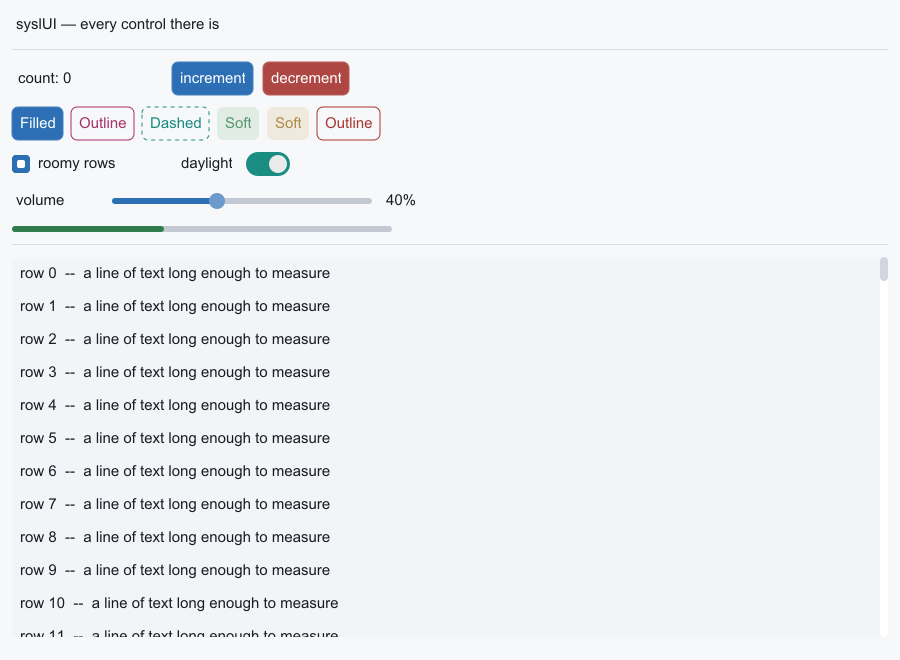
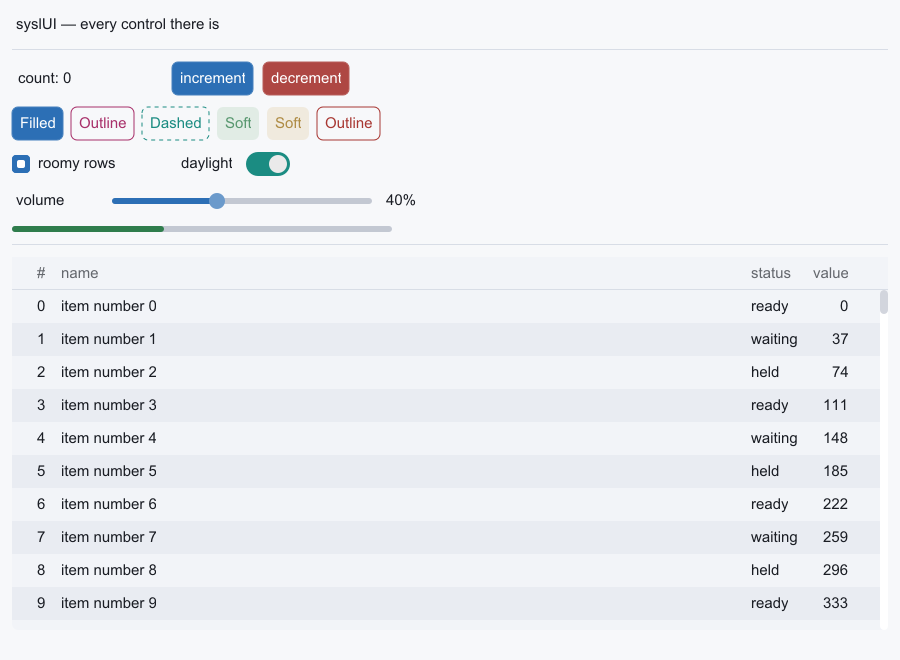
A table of three hundred rows, and both themes in the README
The scrolling list is a table now: right-aligned id and value columns, a flex
name column, a status, striping the checkbox turns off, and a tap that sets the
counter from the row's index.

It is also the measurement the toolkit most needed. A table is lazy -- the tree
holds a node and a slice, and the rows become views during paint -- so a rebuild
costs 2.1 us whatever the list length. And only the rows in the window are
built: 933 allocations a frame at 300 rows and 933 at 3000, where building all
of them was 12,605.

`--shot light` writes the same frame under the other theme, and both are in the
README. That pair is the cheapest check that a restyle reaches everything: a
colour a control had baked in shows up as the one thing that did not move.

diff --git a/README.md b/README.md
@@ -5,14 +5,21 @@ has, drawn by a software rasterizer and handed to SDL3 as one streaming texture.
 
 ![the demo](shot.png)
 
+The same frame under the other theme — one switch, and every control, label, panel, rule and
+scrollbar below it moved. Nothing in the program names a colour: a button says `.Error` and the
+theme says what that is.
+
+![the same screen in the light theme](shot-light.png)
+
 That picture is not a photograph of a window. It is `./syslui-demo --shot`, which draws one frame
 and asks PlutoVG to write its own surface out — so it is byte for byte what the window shows, and
 it is produced by the same program with no display server anywhere near it.
 
 ```
 sysl build . --lib ../syslui
-./syslui-demo              # a window: buttons, a switch, a checkbox, a slider, a scrolling list
+./syslui-demo              # a window: every control, and a scrollable table
 ./syslui-demo --shot       # no window — draws one frame and writes shot.png
+./syslui-demo --shot light # …under the light theme, as shot-light.png
 ./syslui-demo --bench      # no window — prints what a rebuild, a rasterize and an upload cost
 ./syslui-demo --bench 3000 # …at whatever list length you ask for
 ```
@@ -40,33 +47,32 @@ stacks would have disagreed.
 
 Every allocation the program makes goes through a counter — `package.hocon`'s `allocator` block
 points sysl's storage at libc's `malloc` with a `++` in front of it, so these are the program's real
-allocation traffic rather than a model of it. A frame at 900×660:
+allocation traffic rather than a model of it. A frame at 900×660, with the table:
 
-| rows | boxed nodes | rebuild | + rasterize | upload | allocations a rebuild |
-|---:|---:|---:|---:|---:|---:|
-| 30 | 92 | 2.8 µs | 4.71 ms | 65 µs | 124 |
-| 300 | 632 | 14.6 µs | 4.65 ms | 66 µs | 664 |
-| 3000 | 6032 | 126.9 µs | 5.21 ms | 64 µs | 6064 |
+| rows | rebuild | + rasterize | allocations a frame | upload |
+|---:|---:|---:|---:|---:|
+| 300 | 2.1 µs | 1.21 ms | 933 | 66 µs |
+| 3000 | 2.1 µs | 1.33 ms | 933 | 66 µs |
 
-**The rebuild is free** — linear in the node count, one allocation a node and no more, about 21 ns a
-node, and 0.76% of a 60 Hz frame at three thousand rows.
+**A table is lazy, so a rebuild costs nothing at all**: `screen()` allocates the table node and
+keeps a slice, and the rows become views during paint. That is why the rebuild does not grow with
+the list.
 
-**The frame is nearly flat in the list length**, which it was not before culling landed. Three
-hundred rows used to cost 7.74 ms against twenty rows' 4.98 ms, because every row outside the
-window was painted and then clipped away by the backend. A container now asks the canvas whether a
-child is reachable before painting it, and the three numbers above are the same to within noise.
+**And only the rows in the window are built.** Culling stops an invisible row being *painted*, but
+the row still had to exist to be culled — 300 rows meant 12,605 boxes made and thrown away every
+frame. A table's rows are all the same height, so which ones are visible is arithmetic; the numbers
+above are what that is worth, and the reason they do not move between 300 rows and 3000.
 
 **The upload is not the problem anybody expects it to be.** 2.3 MiB across to the GPU every frame is
 0.4% of the budget. Whole-surface uploads are what streaming textures are for.
 
 What is left is the rasterizer, and it is almost all **text**: the same window with no list at all
 draws in 0.51 ms. PlutoVG rasterizes each glyph's outline afresh every frame, so the next thing
-worth attacking is a glyph cache in that package, not anything in syslUI. In practice the demo holds
-a vsync-locked 120 fps.
+worth attacking is a glyph cache in that package, not anything in syslUI. The demo holds a
+vsync-locked 120 fps.
 
-**So the per-frame arena the mobile survey argued for is refused, and by a wider margin than
-before**: allocation is three parts in a thousand of a frame, and the thing next to it is four
-orders of magnitude larger.
+**So the per-frame arena the mobile survey argued for is refused**, and by a wide margin: allocation
+is a rounding error beside the drawing.
 
 ## What a person driving it costs, which the batch numbers hide
 
@@ -91,19 +97,28 @@ the one where allocation is *cheapest*.
 column(spacing = 12):
     text("syslUI — every control there is").padding(4)
 
-    divider(EDGE)
+    divider()
 
     row([
         text(s"count: ${m.count.read()}").padding(6).frame(150, 30),
         button("increment", bump(m.count, 1)),
-        button("decrement", bump(m.count, -1), 0x8A4A3Au32)
+        button("decrement", bump(m.count, -1), .Error)
     ], 10)
+
+    row([
+        button("Filled", nothing),
+        button("Outline", nothing, .Secondary, .Outline),
+        button("Dashed", nothing, .Accent, .Dashed),
+        button("Soft", nothing, .Success, .Soft),
+        button("Soft", nothing, .Warning, .Soft),
+        button("Outline", nothing, .Error, .Outline)
+    ], 8)
 
     row([
         checkbox(m.roomy, "roomy rows"),
         spacer().frame(40, 1),
-        text("night").padding(2),
-        switch(m.night)
+        text("daylight").padding(2),
+        switch(m.daylight, .Accent)
     ], 12)
 
     row([
@@ -112,18 +127,27 @@ column(spacing = 12):
         text(s"${m.volume.read()}%").padding(4)
     ], 10)
 
-    row([progress(real(m.volume.read()) / 100.0, 380), spacer()], 0)
+    row([progress(real(m.volume.read()) / 100.0, 380, .Success), spacer()], 0)
 
-    divider(EDGE)
+    divider()
 
-    scroll(column(rows.map(r -> text(r).padding(gap)), 0), m.offset, 420)
-        .background(ground, 8)
+    table([col("#", true), flex_col("name"), col("status"), col("value", true)],
+          rows, m.offset, 340, Some(i -> m.count.set(int(i))), m.roomy.read())
+        .panel()
 ```
 
-**Two of the controls change the screen rather than decorate it**, which is the point: the checkbox
-sets how much room a row gets and the switch sets what the list sits on. Each is a signal write, a
-rebuild, and a visibly different tree — a demo whose switches only moved themselves would be showing
-the animation and hiding the architecture.
+…and then `body.padding(12).foreground(look.ink).restyle(_ -> look)`, which is the whole of the
+theme switch.
+
+**No call site names a colour.** A button says `.Error`, a bar says `.Success`, the surface says
+`.panel()`, and the theme says what each of those is — which is what makes one `.restyle` at the
+root change every one of them. A hex literal here would be a colour that was still there when the
+light theme was not.
+
+**Three of the controls change the screen rather than themselves**: "daylight" restyles the whole
+tree, "roomy rows" turns the table's striping off, and tapping a table row sets the counter. Each is
+a signal write, a rebuild and a visibly different tree — a demo whose switches only moved themselves
+would be showing the animation and hiding the architecture.
 
 **The last line is a call chain broken before its dot**, which no released compiler could read when
 this was written. A chain of modifiers is how anything gets styled, so a chain that cannot be broken
@@ -131,7 +155,7 @@ is a chain that has to fit on one line.
 
 **The progress bar sits in a `Row` with a spacer** because a `Column` gives every child the column's
 whole width — which is what the dividers and the panel want and not what a bar 380 wide wants. A
-`Row` honours what a child measured to.
+`Row` honours what a child measured to, and the spacer takes the rest.
 
 The whole tree is rebuilt on every signal write — deliberately the whole tree, so the number is the
 worst case rather than what rebuilding only what read the signal would buy later. The frame is drawn
